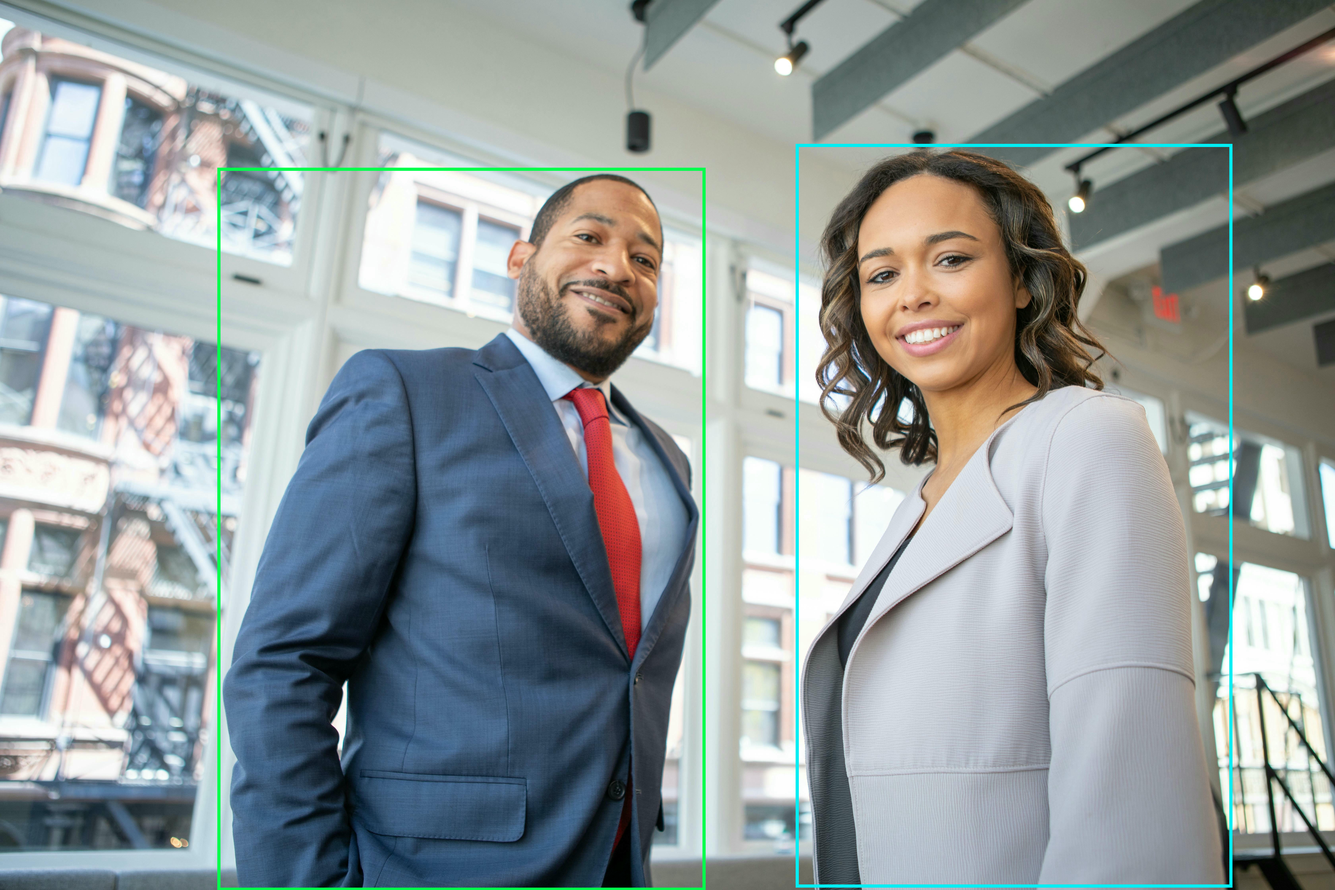
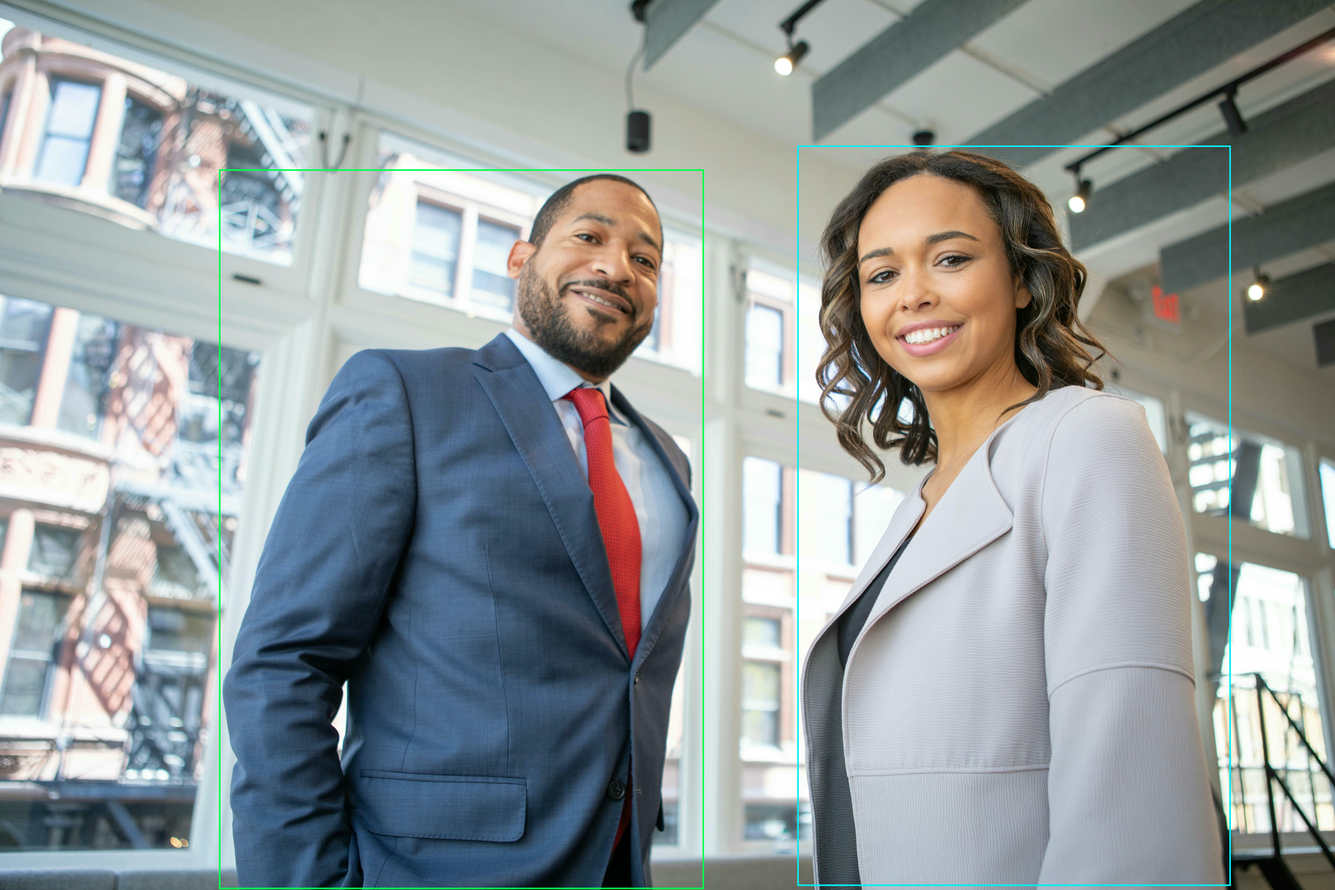
Minor adjustments to the detect people/faces examples (#7)
* Also updates the README to include the new detect people example.

diff --git a/examples/detect_people/src/main.rs b/examples/detect_people/src/main.rs
@@ -5,18 +5,23 @@ SPDX-License-Identifier: Apache-2.0 OR MIT
 
 use az_analyze_image::v40::client::{AnalyzeImageOptions, Client};
 use az_analyze_image::v40::{DetectedPerson, VisualFeature};
-
 use image::{load_from_memory_with_format, ImageFormat, Rgb, RgbImage};
 use imageproc::drawing::draw_hollow_rect_mut;
 use imageproc::rect::Rect;
-
 use reqwest::Client as ReqwestClient;
-
 use std::env::var;
 use std::error::Error;
 
 const IMAGE_URL: &str =
     "https://images.pexels.com/photos/1367269/pexels-photo-1367269.jpeg";
+
+// Pixel thickness for rectangle boundaries.
+const THICKNESS: u32 = 8;
+
+// Colors for each rectangle boundary. If there's more people than COLORS.len(),
+// then we wrap around.
+const COLORS: &[Rgb<u8>] =
+    &[Rgb([1, 255, 79]), Rgb([0, 237, 245]), Rgb([118, 232, 181])];
 
 #[tokio::main]
 async fn main() -> Result<(), Box<dyn Error>> {
@@ -25,17 +30,14 @@ async fn main() -> Result<(), Box<dyn Error>> {
     // Call the Analyze Image API with the people detection feature enabled
     let people: Vec<DetectedPerson> = detect_people(&client, IMAGE_URL).await?;
 
-    // Download the image bytes
+    // Download and Load the image
     let img_bytes: Vec<u8> = download_image(IMAGE_URL).await?;
-
-    // Load the image
     let mut img: RgbImage =
         load_from_memory_with_format(&img_bytes, ImageFormat::Jpeg)?.to_rgb8();
 
     // Draw bounding boxes around detected persons with confidence > 0.75
-    draw_people_bounding_boxes(&mut img, &people);
+    draw_bounding_boxes(&mut img, &people, COLORS, THICKNESS);
 
-    // Save the new image
     img.save("out.jpg")?;
 
     Ok(())
@@ -45,7 +47,7 @@ fn get_client() -> Client {
     let key = var("CV_KEY").expect("no CV_KEY");
     let endpoint = var("CV_ENDPOINT").expect("no CV_ENDPOINT");
 
-    Client::new(key, &endpoint).expect("failed to create client")
+    Client::new(key, &endpoint).unwrap()
 }
 
 async fn detect_people(
@@ -57,22 +59,24 @@ async fn detect_people(
         features: Some(&features),
         ..Default::default()
     };
-
     let analysis = client.analyze_image_url(url, options).await?;
 
-    Ok(analysis.people_result.expect("no people result").values)
+    Ok(analysis.people_result.unwrap().values)
 }
 
 async fn download_image(url: &str) -> Result<Vec<u8>, Box<dyn Error>> {
     let client = ReqwestClient::new();
     let response = client.get(url).send().await?.bytes().await?;
+
     Ok(response.to_vec())
 }
 
-fn draw_people_bounding_boxes(img: &mut RgbImage, people: &[DetectedPerson]) {
-    let thickness = 16;
-    let colors = [Rgb([1, 255, 79]), Rgb([0, 237, 245]), Rgb([118, 232, 181])];
-
+fn draw_bounding_boxes(
+    img: &mut RgbImage,
+    people: &[DetectedPerson],
+    colors: &[Rgb<u8>],
+    thickness: u32,
+) {
     for (i, person) in people.iter().enumerate() {
         if person.confidence <= 0.75 {
             continue;
@@ -83,7 +87,6 @@ fn draw_people_bounding_boxes(img: &mut RgbImage, people: &[DetectedPerson]) {
             person.bounding_box.y as i32,
         )
         .of_size(person.bounding_box.w, person.bounding_box.h);
-
         let color = colors[i % colors.len()];
 
         draw_thick_rect(img, bounding_box, color, thickness);
@@ -94,11 +97,11 @@ fn draw_thick_rect(
     img: &mut RgbImage,
     rect: Rect,
     color: Rgb<u8>,
-    thickness: i32,
+    thickness: u32,
 ) {
     for i in 0..thickness {
-        let new_rect = Rect::at(rect.left() - i, rect.top() - i)
-            .of_size(rect.width() + i as u32 * 2, rect.height() + i as u32 * 2);
+        let new_rect = Rect::at(rect.left() - i as i32, rect.top() - i as i32)
+            .of_size(rect.width() + i * 2, rect.height() + i * 2);
 
         draw_hollow_rect_mut(img, new_rect, color);
     }

diff --git a/examples/detect_faces/src/main.rs b/examples/detect_faces/src/main.rs
@@ -5,18 +5,23 @@ SPDX-License-Identifier: Apache-2.0 OR MIT
 
 use az_analyze_image::v32::client::{AnalyzeImageOptions, Client};
 use az_analyze_image::v32::{FaceDescription, VisualFeatureTypes};
-
 use image::{load_from_memory_with_format, ImageFormat, Rgb, RgbImage};
 use imageproc::drawing::draw_hollow_rect_mut;
 use imageproc::rect::Rect;
-
 use reqwest::Client as ReqwestClient;
-
 use std::env::var;
 use std::error::Error;
 
 const IMAGE_URL: &str =
     "https://images.pexels.com/photos/1367269/pexels-photo-1367269.jpeg";
+
+// Pixel thickness for rectangle boundaries.
+const THICKNESS: u32 = 8;
+
+// Colors for each rectangle boundary. If there's more faces than COLORS.len(),
+// then we wrap around.
+const COLORS: &[Rgb<u8>] =
+    &[Rgb([1, 255, 79]), Rgb([0, 237, 245]), Rgb([118, 232, 181])];
 
 #[tokio::main]
 async fn main() -> Result<(), Box<dyn Error>> {
@@ -25,17 +30,14 @@ async fn main() -> Result<(), Box<dyn Error>> {
     // Call the Analyze Image API with the face detection feature enabled
     let faces: Vec<FaceDescription> = detect_faces(&client, IMAGE_URL).await?;
 
-    // Download the image bytes
+    // Download and Load the image
     let img_bytes: Vec<u8> = download_image(IMAGE_URL).await?;
-
-    // Load the image
     let mut img: RgbImage =
         load_from_memory_with_format(&img_bytes, ImageFormat::Jpeg)?.to_rgb8();
 
     // Draw bounding boxes around all detected faces
-    draw_face_bounding_boxes(&mut img, &faces);
+    draw_bounding_boxes(&mut img, &faces, COLORS, THICKNESS);
 
-    // Save the new image
     img.save("out.jpg")?;
 
     Ok(())
@@ -45,7 +47,7 @@ fn get_client() -> Client {
     let key = var("CV_KEY").expect("no CV_KEY");
     let endpoint = var("CV_ENDPOINT").expect("no CV_ENDPOINT");
 
-    Client::new(key, &endpoint).expect("failed to create client")
+    Client::new(key, &endpoint).unwrap()
 }
 
 async fn detect_faces(
@@ -57,7 +59,6 @@ async fn detect_faces(
         visual_features: Some(&features),
         ..Default::default()
     };
-
     let analysis = client.analyze_image_url(url, options).await?;
 
     Ok(analysis.faces.unwrap())
@@ -66,20 +67,22 @@ async fn detect_faces(
 async fn download_image(url: &str) -> Result<Vec<u8>, Box<dyn Error>> {
     let client = ReqwestClient::new();
     let response = client.get(url).send().await?.bytes().await?;
+
     Ok(response.to_vec())
 }
 
-fn draw_face_bounding_boxes(img: &mut RgbImage, faces: &[FaceDescription]) {
-    let thickness = 16;
-    let colors = [Rgb([1, 255, 79]), Rgb([0, 237, 245]), Rgb([118, 232, 181])];
-
+fn draw_bounding_boxes(
+    img: &mut RgbImage,
+    faces: &[FaceDescription],
+    colors: &[Rgb<u8>],
+    thickness: u32,
+) {
     for (i, face) in faces.iter().enumerate() {
         let bounding_box = Rect::at(
             face.face_rectangle.left as i32,
             face.face_rectangle.top as i32,
         )
         .of_size(face.face_rectangle.width, face.face_rectangle.height);
-
         let color = colors[i % colors.len()];
 
         draw_thick_rect(img, bounding_box, color, thickness);
@@ -90,11 +93,11 @@ fn draw_thick_rect(
     img: &mut RgbImage,
     rect: Rect,
     color: Rgb<u8>,
-    thickness: i32,
+    thickness: u32,
 ) {
     for i in 0..thickness {
-        let new_rect = Rect::at(rect.left() - i, rect.top() - i)
-            .of_size(rect.width() + i as u32 * 2, rect.height() + i as u32 * 2);
+        let new_rect = Rect::at(rect.left() - i as i32, rect.top() - i as i32)
+            .of_size(rect.width() + i * 2, rect.height() + i * 2);
 
         draw_hollow_rect_mut(img, new_rect, color);
     }

diff --git a/az_analyze_image/README.md b/az_analyze_image/README.md
@@ -47,18 +47,23 @@ confidence greater than 0.75 and saves it to `out.jpg`:
 ```rust
 use az_analyze_image::v40::client::{AnalyzeImageOptions, Client};
 use az_analyze_image::v40::{DetectedPerson, VisualFeature};
-
 use image::{load_from_memory_with_format, ImageFormat, Rgb, RgbImage};
 use imageproc::drawing::draw_hollow_rect_mut;
 use imageproc::rect::Rect;
-
 use reqwest::Client as ReqwestClient;
-
 use std::env::var;
 use std::error::Error;
 
 const IMAGE_URL: &str =
     "https://images.pexels.com/photos/1367269/pexels-photo-1367269.jpeg";
+
+// Pixel thickness for rectangle boundaries.
+const THICKNESS: u32 = 8;
+
+// Colors for each rectangle boundary. If there's more people than COLORS.len(),
+// then we wrap around.
+const COLORS: &[Rgb<u8>] =
+    &[Rgb([1, 255, 79]), Rgb([0, 237, 245]), Rgb([118, 232, 181])];
 
 #[tokio::main]
 async fn main() -> Result<(), Box<dyn Error>> {
@@ -67,17 +72,14 @@ async fn main() -> Result<(), Box<dyn Error>> {
     // Call the Analyze Image API with the people detection feature enabled
     let people: Vec<DetectedPerson> = detect_people(&client, IMAGE_URL).await?;
 
-    // Download the image bytes
+    // Download and Load the image
     let img_bytes: Vec<u8> = download_image(IMAGE_URL).await?;
-
-    // Load the image
     let mut img: RgbImage =
         load_from_memory_with_format(&img_bytes, ImageFormat::Jpeg)?.to_rgb8();
 
     // Draw bounding boxes around detected persons with confidence > 0.75
-    draw_people_bounding_boxes(&mut img, &people);
+    draw_bounding_boxes(&mut img, &people, COLORS, THICKNESS);
 
-    // Save the new image
     img.save("out.jpg")?;
 
     Ok(())
@@ -87,7 +89,7 @@ fn get_client() -> Client {
     let key = var("CV_KEY").expect("no CV_KEY");
     let endpoint = var("CV_ENDPOINT").expect("no CV_ENDPOINT");
 
-    Client::new(key, &endpoint).expect("failed to create client")
+    Client::new(key, &endpoint).unwrap()
 }
 
 async fn detect_people(
@@ -99,22 +101,24 @@ async fn detect_people(
         features: Some(&features),
         ..Default::default()
     };
-
     let analysis = client.analyze_image_url(url, options).await?;
 
-    Ok(analysis.people_result.expect("no people result").values)
+    Ok(analysis.people_result.unwrap().values)
 }
 
 async fn download_image(url: &str) -> Result<Vec<u8>, Box<dyn Error>> {
     let client = ReqwestClient::new();
     let response = client.get(url).send().await?.bytes().await?;
+
     Ok(response.to_vec())
 }
 
-fn draw_people_bounding_boxes(img: &mut RgbImage, people: &[DetectedPerson]) {
-    let thickness = 16;
-    let colors = [Rgb([1, 255, 79]), Rgb([0, 237, 245]), Rgb([118, 232, 181])];
-
+fn draw_bounding_boxes(
+    img: &mut RgbImage,
+    people: &[DetectedPerson],
+    colors: &[Rgb<u8>],
+    thickness: u32,
+) {
     for (i, person) in people.iter().enumerate() {
         if person.confidence <= 0.75 {
             continue;
@@ -125,7 +129,6 @@ fn draw_people_bounding_boxes(img: &mut RgbImage, people: &[DetectedPerson]) {
             person.bounding_box.y as i32,
         )
         .of_size(person.bounding_box.w, person.bounding_box.h);
-
         let color = colors[i % colors.len()];
 
         draw_thick_rect(img, bounding_box, color, thickness);
@@ -136,11 +139,11 @@ fn draw_thick_rect(
     img: &mut RgbImage,
     rect: Rect,
     color: Rgb<u8>,
-    thickness: i32,
+    thickness: u32,
 ) {
     for i in 0..thickness {
-        let new_rect = Rect::at(rect.left() - i, rect.top() - i)
-            .of_size(rect.width() + i as u32 * 2, rect.height() + i as u32 * 2);
+        let new_rect = Rect::at(rect.left() - i as i32, rect.top() - i as i32)
+            .of_size(rect.width() + i * 2, rect.height() + i * 2);
 
         draw_hollow_rect_mut(img, new_rect, color);
     }
